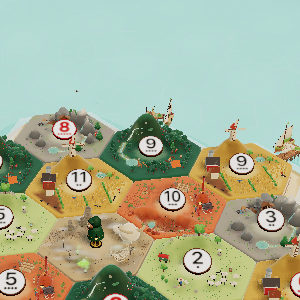
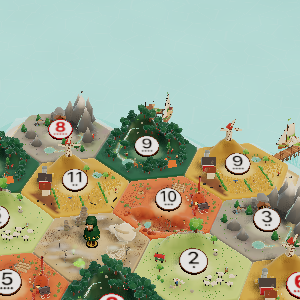
Narrow harbour goods occlusion fix to pier geometry and sweep range proof (#1158)
- Revert global hex-jelly.ts peak and oak modifications, keeping ore massif and pasture canopy 100% intact
- In harbor-jelly.ts, position goods seaward along pier walkway, extend northern piers, and elevate goods pallets
- Update dock-piles-visibility-prove.mjs to sweep seeds 1..6 in both random and official modes plus issue repro seeds 14 and 105
- Update Step 1 audit survey and regenerate visual proofs

Changed region(s): [[0.0, 0.3, 1.0, 1.0], [0.63, 0.96, 0.66, 1.0]]

diff --git a/src/lib/scene/hex-jelly.ts b/src/lib/scene/hex-jelly.ts
@@ -212,17 +212,17 @@ export function layoutOf(kind: Terrain, seed: number): Layout {
     // running out from it across a dry gully to the tipple on that flank; the tarn on the other front flank.
     const s = r() < 0.5 ? -1 : 1;
     // The peaks are faceted rock meshes (mine()); the ground only swells under them.
-    // Keep the rear summit below the sightline to the next hex’s numeral and harbour (#634, #1158).
-    L.peaks.push({ ...at(hillAt, 0.52), r: 0.20, h: 0.36 + r() * 0.03 });
-    L.peaks.push({ ...at(hillAt - s * 0.62, 0.50), r: 0.17, h: 0.32 + r() * 0.03 });
-    L.peaks.push({ ...at(hillAt + s * 0.55, 0.52), r: 0.15, h: 0.28 + r() * 0.03 });
+    // Keep the rear summit below the sightline to the next hex’s numeral (#634).
+    L.peaks.push({ ...at(hillAt, 0.56), r: 0.24, h: 0.56 + r() * 0.04 });
+    L.peaks.push({ ...at(hillAt - s * 0.62, 0.54), r: 0.19, h: 0.5 + r() * 0.05 });
+    L.peaks.push({ ...at(hillAt + s * 0.55, 0.56), r: 0.17, h: 0.42 + r() * 0.04 });
     // The massif (the owner, 2026-10-16: "more mountains on the hex so it's easier to see that it's ore"): two shoulders
     // behind and between the three, and one on the open flank past the snowmelt, each kept inside the edge band (where paths
     // stand) and off the corners.
     const fit = (p: Pt, r0: number) => Math.min(r0, INR - EDGE_BAND - hexDist(p.x, p.z), nearestCorner(p.x, p.z) - CORNER_DISC - 0.06);
-    for (const [da, d, r0, h] of [[-0.3, 0.52, 0.12, 0.24], [0.28, 0.52, 0.12, 0.22], [-1.15, 0.62, 0.11, 0.20]] as const) {
+    for (const [da, d, r0, h] of [[-0.3, 0.64, 0.16, 0.52], [0.28, 0.64, 0.15, 0.46], [-1.15, 0.66, 0.13, 0.3]] as const) {
       const p = at(hillAt + s * da, d);
-      L.peaks.push({ ...p, r: fit(p, r0), h: h + r() * 0.04 });
+      L.peaks.push({ ...p, r: fit(p, r0), h: h + r() * 0.05 });
     }
     const a = at(hillAt - s * 0.62, 0.56);
     const b = at(hillAt + s * 0.55, 0.58);
@@ -299,7 +299,7 @@ export function layoutOf(kind: Terrain, seed: number): Layout {
     const c = at(hillAt, 0.6);
     const [tx, tz] = [-Math.sin(hillAt), Math.cos(hillAt)];
     const half = 0.4;
-    L.ridges.push({ a: { x: c.x - tx * half, z: c.z - tz * half }, b: { x: c.x + tx * half, z: c.z + tz * half }, w: 0.3, h: 0.24 + r() * 0.04 });
+    L.ridges.push({ a: { x: c.x - tx * half, z: c.z - tz * half }, b: { x: c.x + tx * half, z: c.z + tz * half }, w: 0.3, h: 0.3 + r() * 0.05 });
     L.spots.push({ ...at(hillAt + Math.PI - 0.55, 0.62), r: 0.26, h: 0.05 }, { ...at(hillAt + Math.PI + 0.6, 0.64), r: 0.22, h: 0.04 });
     L.spots.push({ ...at(hillAt + Math.PI, 0.6), r: 0.2, h: -0.022 });
     L.marks = {
@@ -1053,18 +1053,9 @@ function forest(L: Layout, ground: (x: number, z: number) => number, r: () => nu
       const along = dx * EYE.x + dz * EYE.z;
       return along > 0 && along < 0.32 && Math.abs(dx * EYE.z - dz * EYE.x) < 0.13;
     });
-  const ok = (x: number, z: number, room: number) => {
-    const h = ground(x, z);
-    const maxDist = z < -0.15 && h > 0.15 ? INR - 0.35 : INR - 0.16;
-    return (
-      !inView(x, z) &&
-      Math.hypot(x, z) > 0.37 + room &&
-      nearestCorner(x, z) > 0.22 &&
-      hexDist(x, z) < maxDist &&
-      clear(x, z, room) &&
-      stands.every((s) => Math.hypot(s.x - x, s.z - z) > (s.r + room) * 0.62)
-    );
-  };
+  const ok = (x: number, z: number, room: number) =>
+    !inView(x, z) &&
+    Math.hypot(x, z) > 0.37 + room && nearestCorner(x, z) > 0.22 && hexDist(x, z) < INR - 0.16 && clear(x, z, room) && stands.every((s) => Math.hypot(s.x - x, s.z - z) > (s.r + room) * 0.62);
 
   // The canopy.
   type Blob = { x: number; y: number; z: number; s: number; kind: "leaf" | "pine" | "bush" };
@@ -1078,28 +1069,24 @@ function forest(L: Layout, ground: (x: number, z: number) => number, r: () => nu
     const [x, z] = [Math.cos(a) * d, Math.sin(a) * d];
     const h = ground(x, z);
     if (r() > 0.1 + h * 4) continue;
-    if (z < -0.18 && h > 0.14) continue;
-    const onCrest = h > 0.20 && z < -0.15;
-    const pine = h > 0.25 && r() < 0.6;
-    const size = (pine ? 0.07 : 0.06 + r() * 0.02) * (onCrest ? 0.5 : 0.9 + Math.min(1, h * 2) * 0.3);
+    const pine = h > 0.32 && r() < 0.6;
+    const size = (pine ? 0.075 : 0.065 + r() * 0.03) * (0.9 + Math.min(1, h * 2) * 0.3);
     if (!ok(x, z, size)) continue;
     stands.push({ x, z, r: size });
     const y0 = BLOCK_H + h;
     if (pine) {
-      const th = size * (onCrest ? 0.4 : 0.9);
+      const th = size * 0.9;
       trunks.push({ m: mat(x, y0 + th / 2, z, size * 0.22, th, size * 0.22), c: BARK });
-      for (let t = 0; t < (onCrest ? 2 : 4); t++) blobs.push({ x, y: y0 + th + t * size * 0.4, z, s: size * (0.55 + 0.75 * (1 - t / 4)), kind: "pine" });
+      for (let t = 0; t < 4; t++) blobs.push({ x, y: y0 + th + t * size * 0.62, z, s: size * (0.55 + 0.75 * (1 - t / 4)), kind: "pine" });
       pines.push({ x, z, y: y0 + th, s: size });
     } else {
-      const th = size * (onCrest ? 0.4 : 0.8);
+      const th = size * 0.8;
       trunks.push({ m: mat(x, y0 + th / 2, z, size * 0.26, th, size * 0.26), c: BARK });
-      const n = onCrest ? 2 : 3 + Math.floor(r() * 4);
-      blobs.push({ x, y: y0 + th + size * 0.6, z, s: size * 0.75, kind: "leaf" });
+      const n = 3 + Math.floor(r() * 4);
+      blobs.push({ x, y: y0 + th + size, z, s: size * 1.05, kind: "leaf" });
       for (let i = 1; i < n; i++) {
         const a2 = r() * Math.PI * 2;
-        const bz = z + Math.sin(a2) * size * 0.5;
-        if (onCrest && bz < z - 0.01) continue;
-        blobs.push({ x: x + Math.cos(a2) * size * 0.5, y: y0 + th + size * (0.4 + r() * 0.4), z: bz, s: size * (0.4 + r() * 0.3), kind: "leaf" });
+        blobs.push({ x: x + Math.cos(a2) * size * 0.75, y: y0 + th + size * (0.6 + r() * 0.8), z: z + Math.sin(a2) * size * 0.75, s: size * (0.6 + r() * 0.3), kind: "leaf" });
       }
     }
   }
@@ -1744,20 +1731,20 @@ function pasture(L: Layout, ground: (x: number, z: number) => number, r: () => n
     gate.rotation.y = -Math.atan2(tz, tx);
   }
 
-  // The oak on the crest: a fat trunk and a round crown of blobs.
+  // The oak on the crest: a fat trunk and a big round crown of blobs.
   {
     const o = M.oak!;
     const y = Y(o.x, o.z);
-    const leaves: THREE.BufferGeometry[] = [part(cyl(0.7, 1, 10), "#6e4128", [o.x, y + 0.045, o.z], [0, 0, 0], [0.024, 0.09, 0.024])];
+    const leaves: THREE.BufferGeometry[] = [part(cyl(0.7, 1, 10), "#6e4128", [o.x, y + 0.06, o.z], [0, 0, 0], [0.028, 0.12, 0.028])];
     const LEAF = ["#3f8c38", "#58a443", "#7cbd4f"];
     for (let i = 0; i < 9; i++) {
       const a = (i / 9) * Math.PI * 2;
       const up = i % 3;
-      leaves.push(part(blobGeo(i + 20), LEAF[up]!, [o.x + Math.cos(a) * 0.055, y + 0.11 + up * 0.03, o.z + Math.sin(a) * 0.055], [0, a, 0], [0.055, 0.05, 0.055]));
+      leaves.push(part(blobGeo(i + 20), LEAF[up]!, [o.x + Math.cos(a) * 0.07, y + 0.14 + up * 0.04, o.z + Math.sin(a) * 0.07], [0, a, 0], [0.07, 0.062, 0.07]));
     }
-    leaves.push(part(blobGeo(33), LEAF[2]!, [o.x, y + 0.17, o.z], [0, 0, 0], [0.06, 0.05, 0.06]));
+    leaves.push(part(blobGeo(33), LEAF[2]!, [o.x, y + 0.23, o.z], [0, 0, 0], [0.075, 0.062, 0.075]));
     g.add(mesh(merge(leaves), cm));
-    stands.push({ x: o.x, z: o.z, r: 0.12 });
+    stands.push({ x: o.x, z: o.z, r: 0.14 });
   }
 
   // The shepherd's hut: green-planked walls, a curved red roof, wheels, a step to the door, a stove pipe and its smoke.

diff --git a/src/lib/scene/harbor-jelly.ts b/src/lib/scene/harbor-jelly.ts
@@ -662,8 +662,9 @@ function build(coast: CoastPt[], docks: Dock[], seed: number): Shore {
         if (Math.abs(across) < best && out > 0) [best, wv] = [Math.abs(across), out];
       });
     }
+    const north = d.mz < -0.7;
     const v0 = 0.1;
-    const v1 = wv + 0.5;
+    const v1 = wv + (north ? 0.74 : 0.5);
     const len = v1 - v0;
     const W = 0.2;
     const yAt = (v: number) => (v < wv ? lerp(SURFACE + 0.07, SURFACE, smooth(v / wv, 0.3, 1)) : lerp(SURFACE, floorY(v + 0.1) + 0.004, smooth(v - wv, 0, 0.56)));
@@ -752,9 +753,9 @@ function build(coast: CoastPt[], docks: Dock[], seed: number): Shore {
     const goodsParts: THREE.BufferGeometry[] = [];
     const G = (geometry: THREE.BufferGeometry) => { goodsParts.push(geometry); P(geometry); };
     const S = 2.5;
-    const stride = Math.min(0.7, (len - 0.2) / 0.64);
-    const gv = Math.max(v0 + 0.18, Math.min(wv + 0.12, v1 - 0.38 * stride));
-    const gy = DECK + 0.09;
+    const stride = Math.min(0.65, (len - 0.2) / 0.64);
+    const gv = Math.max(v0 + 0.22, v1 - 0.48 * stride);
+    const gy = DECK + (north ? 0.14 : 0.02);
     const good = d.kind;
     if (good === "timber") {
       for (const [x, y] of [[-0.06, 0], [0, 0], [0.06, 0], [-0.03, 0.06], [0.03, 0.06], [0, 0.115]] as const) {
